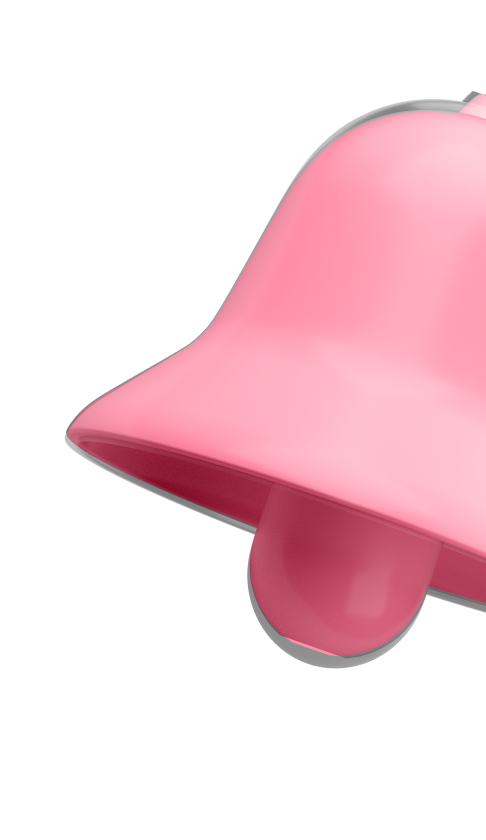
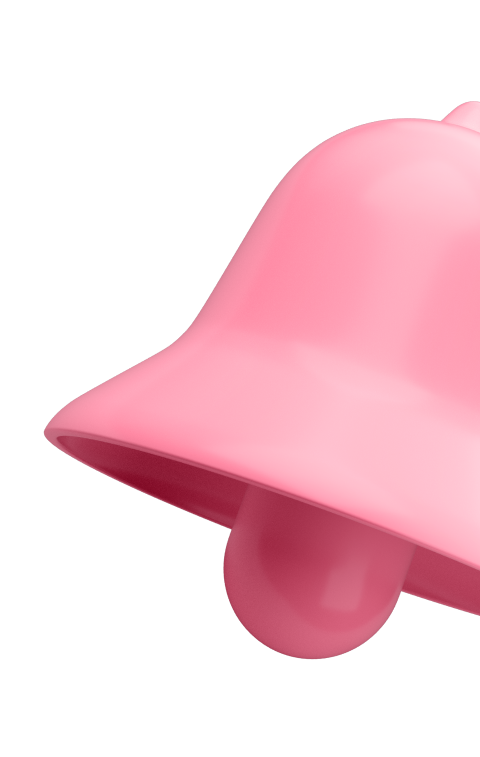
fix images

diff --git a/pages/features.js b/pages/features.js
@@ -65,8 +65,8 @@ export default function Features() {
           <Image
             layout="responsive"
             src="/images/sticky-notes.png"
-            width={227}
-            height={254}
+            width={241}
+            height={255}
             quality={100}
             priority
             alt="sticky-notes"
@@ -101,8 +101,8 @@ export default function Features() {
           <Image
             layout="responsive"
             src="/images/bell.png"
-            width={486}
-            height={840}
+            width={480}
+            height={757}
             quality={100}
             priority
             alt="bell"

diff --git a/styles/pages/features.scss b/styles/pages/features.scss
@@ -43,6 +43,12 @@
       filter: blur(20px);
       opacity: 0.4;
     }
+
+    .clock {
+      span {
+        overflow: visible !important;
+      }
+    }
   }
 
   .bell {
